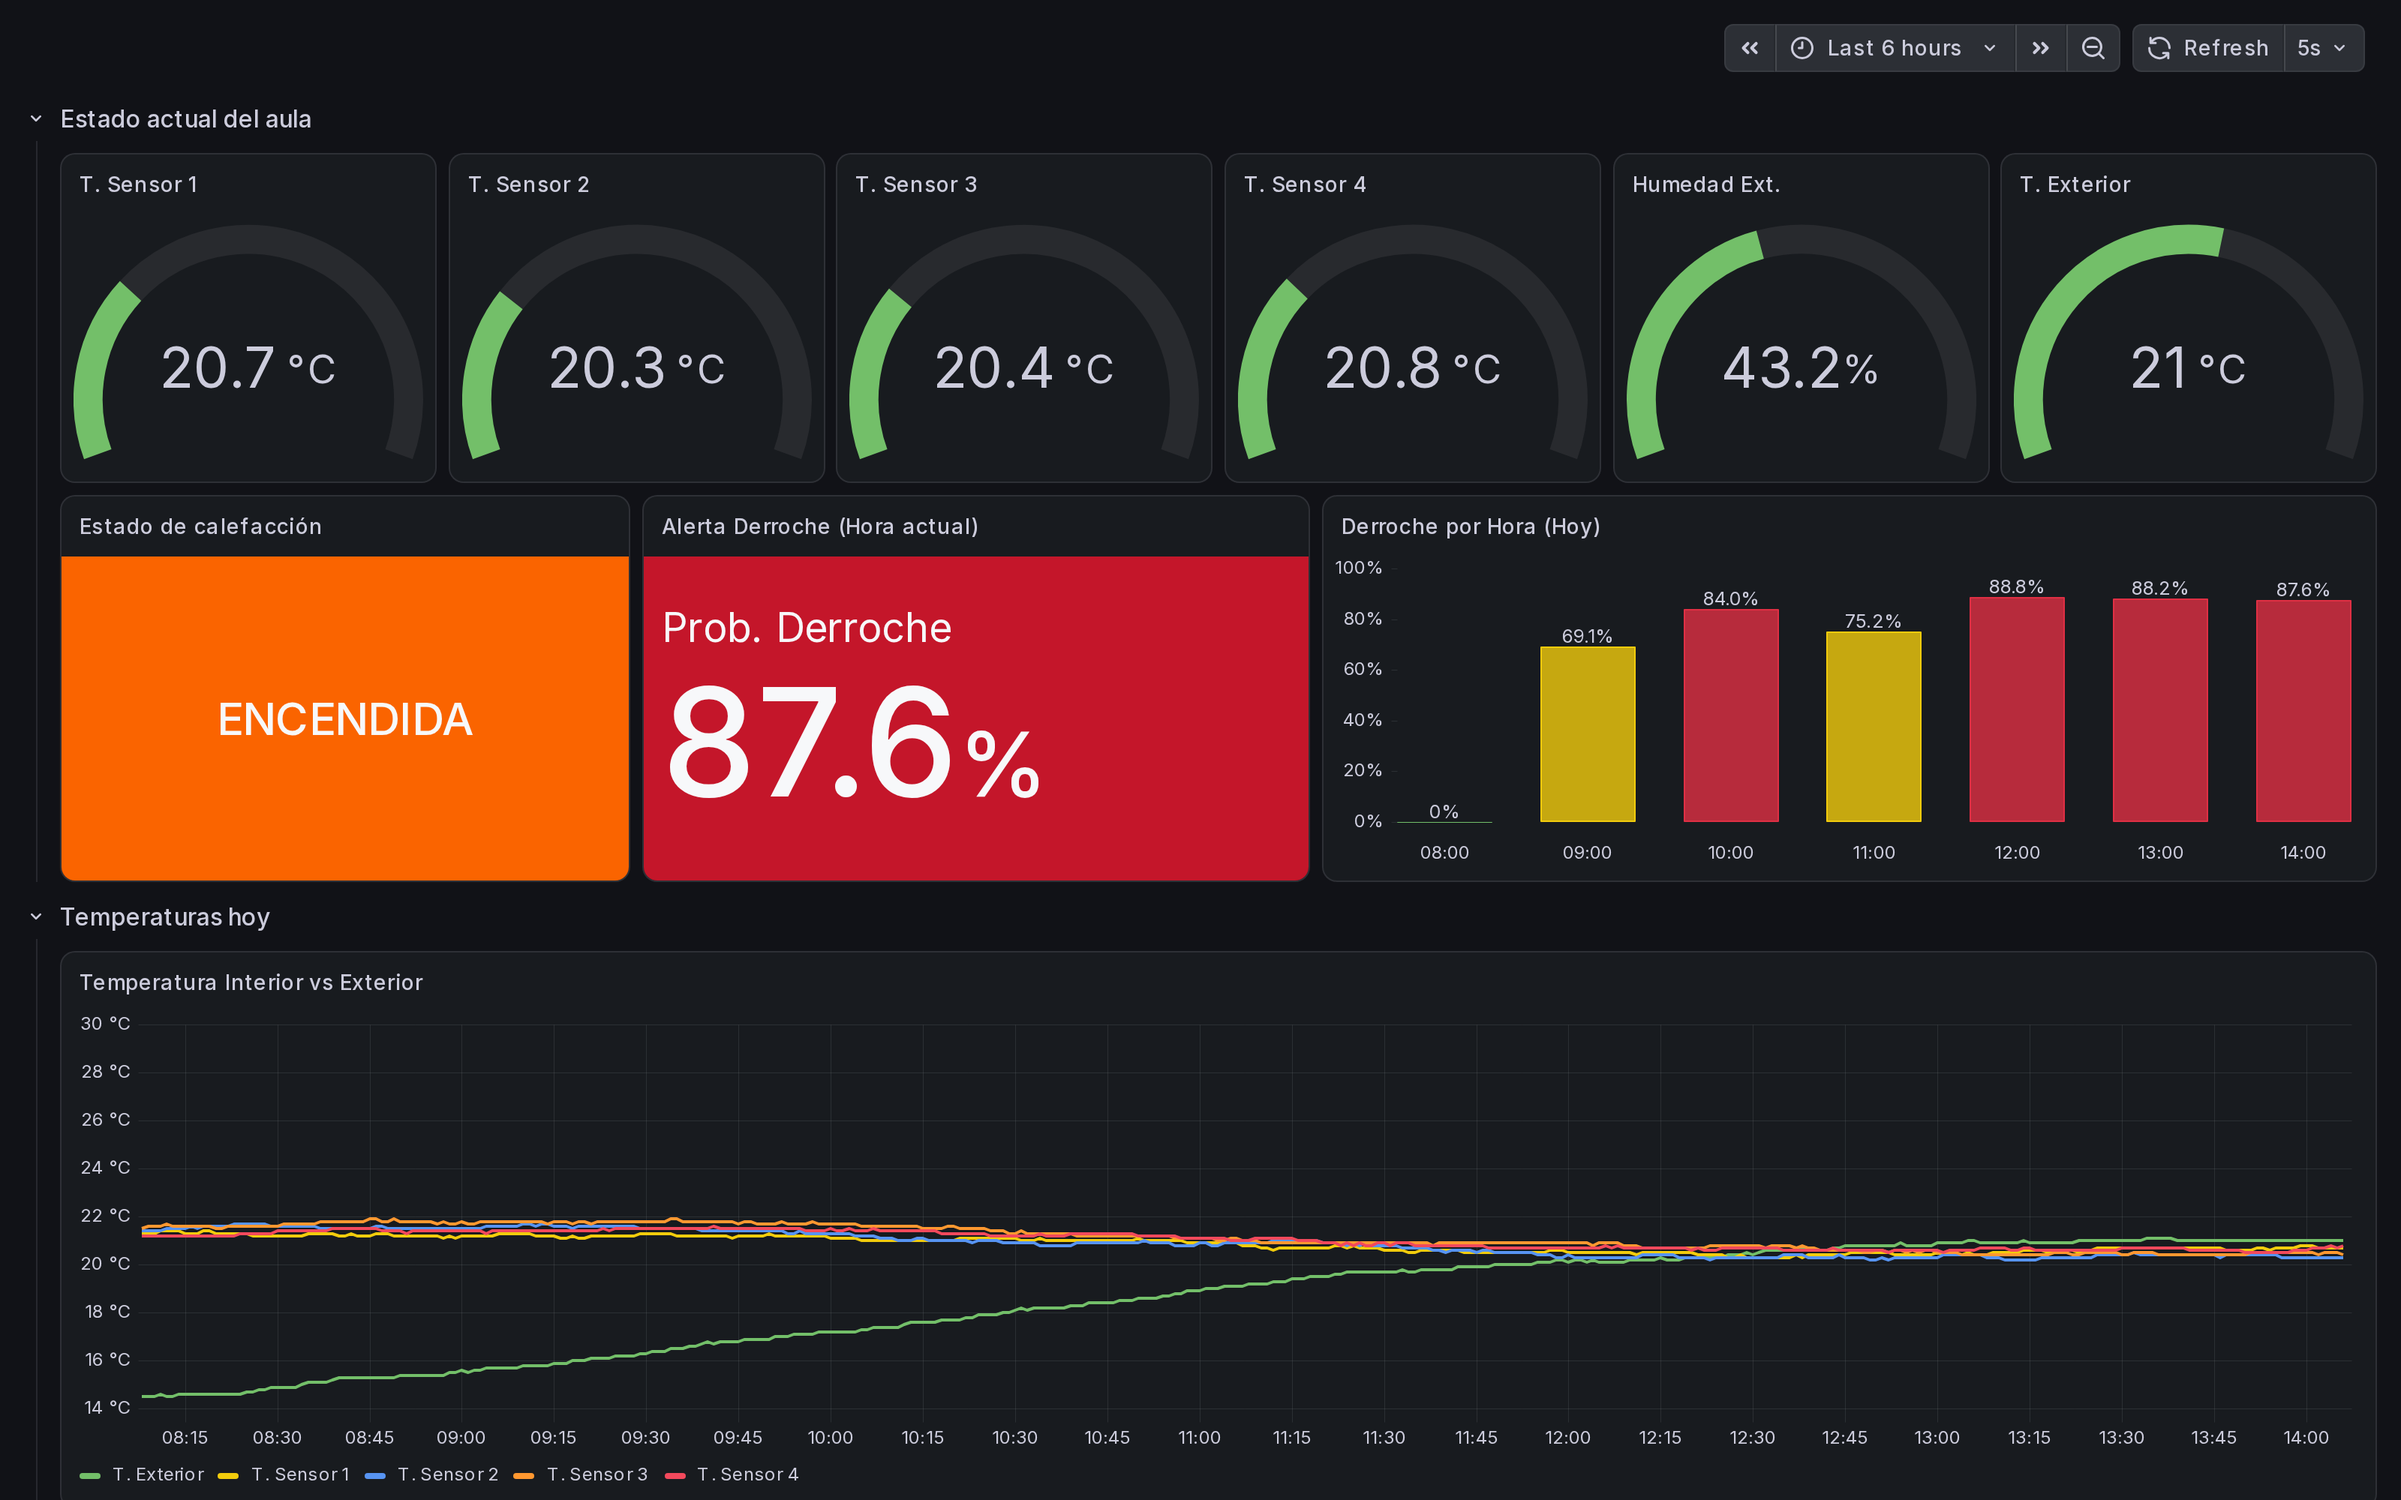
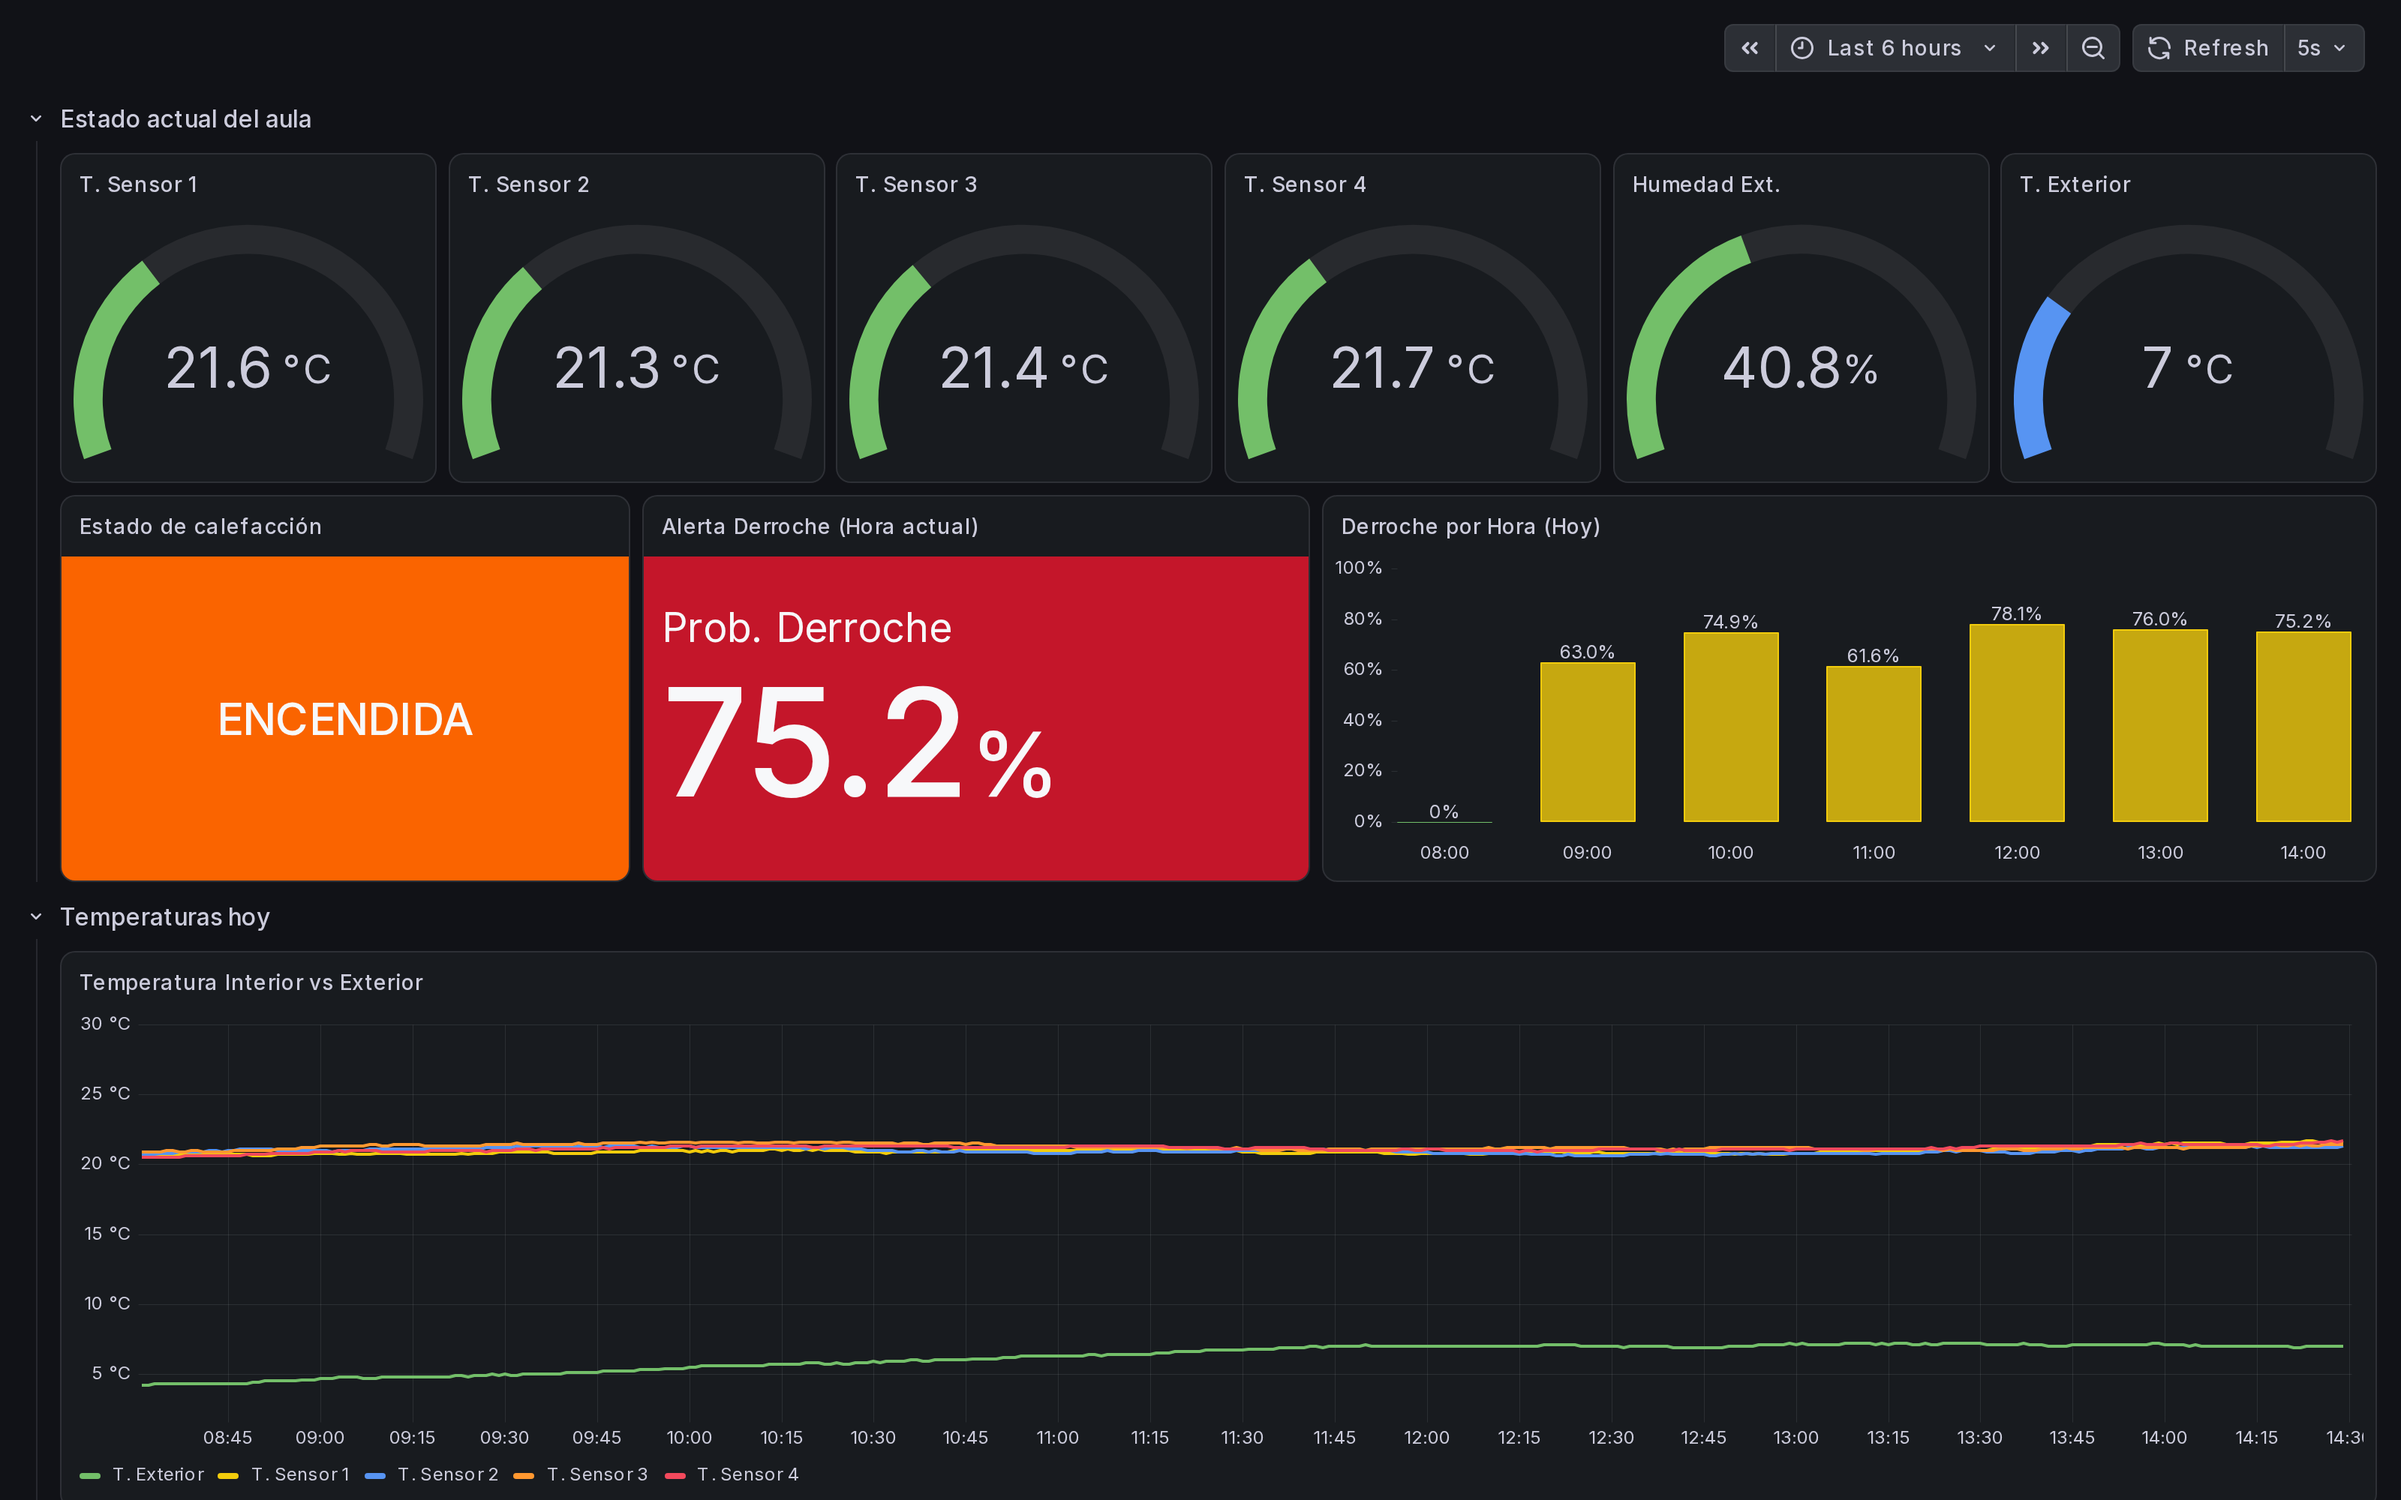
docs: regenerar la captura del dashboard con un escenario coherente
La captura anterior mostraba la calefaccion encendida con 21 C en el
exterior, por encima de la temperatura del aula. Es consistente con las
reglas del termostato (dia lectivo, hora entre 7 y 16, aula por debajo de
21,9 C) pero fisicamente absurdo: con la calle mas caliente que el aula
no se escapa calor por las ventanas, y los datos historicos del proyecto
van de septiembre a marzo.

Resembrada en escenario de invierno: exterior de 4 a 7 C, aula sobre
21 C, puerta y ventanas abiertas 33 min por hora. El derroche pasa a ser
creible y la grafica gana legibilidad, porque las bandas interior y
exterior dejan de solaparse.

diff --git a/docs/img/README.md b/docs/img/README.md
@@ -18,7 +18,7 @@ Imágenes referenciadas desde la documentación.
 | `13_app_formulario.png` | Formulario de la app Streamlit | App |
 | `14_app_resultado_alerta.png` | Resultado con alerta de derroche (69,2 %) | App |
 | `14_grafana_tiempo_real.png` | Estado actual del aula, calefacción apagada | Grafana :3001 |
-| `22_grafana_live_alerta.png` | Estado actual con calefacción encendida y alerta al 89,5 % | Grafana :3001 |
+| `22_grafana_live_alerta.png` | Estado actual en escenario de invierno: exterior a 7 °C, calefacción encendida, ventanas abiertas y alerta al 75,2 % | Grafana :3001 |
 | `20_grafana_live_ambiente.png` | Temperatura interior/exterior y ambiente | Grafana :3001 |
 | `21_grafana_live_aperturas.png` | Puertas/ventanas y condiciones por hora | Grafana :3001 |
 | `17_grafana_hist_distribucion.png` | Distribución del sensor y temperatura histórica | Grafana :3000 |
